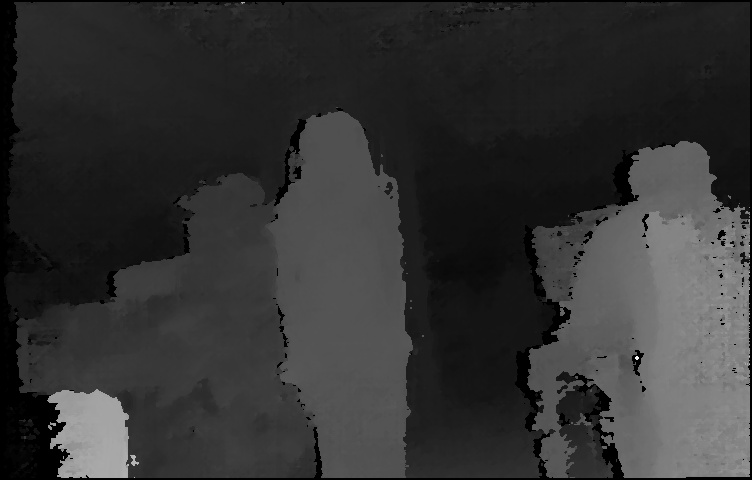
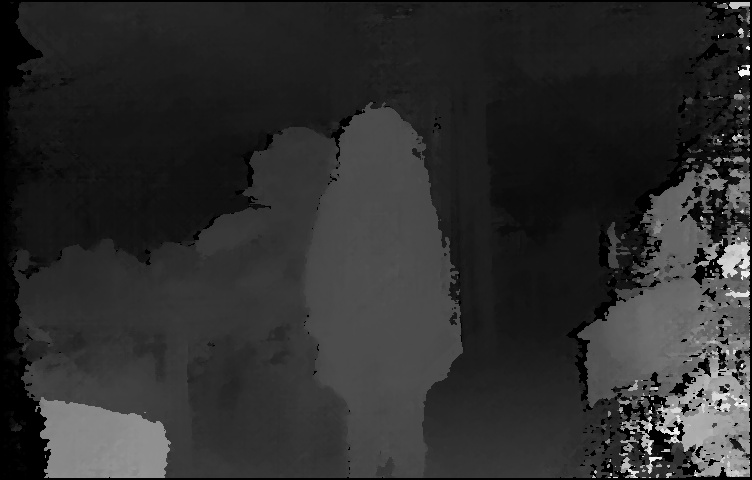
complete filter

diff --git a/src/example.cpp b/src/example.cpp
@@ -2,7 +2,9 @@
 
 BiCamera::~BiCamera()
 {
+  delete c;
   delete loop_rate;
+  delete[] img_data;
 }
 
 void BiCamera::FitPlane(PC::Ptr cloud,PC::Ptr fit_cloud) // need K
@@ -76,17 +78,30 @@ void BiCamera::FitPlane(PC::Ptr cloud,PC::Ptr fit_cloud) // need K
 void BiCamera::Init()
 {
   // ros publish
-  pub = nh.advertise<PC> ("points2", 1);
+  pub = nh.advertise<PC> ("points_temp", 1);
+  pub2 = nh.advertise<PC> ("points_test", 1);
 
-  // camera frame configuration
+  // set and open camera
+  sel = CAM_STEREO_752X480_LD_30FPS;
+  c = new movesense::MoveSenseCamera(sel);
+
+  //  # if use camera
+  // if(!(movesense::MS_SUCCESS == c->OpenCamera()))
+  //   {
+  //     std::cout << "Open Camera Failed!" << std::endl;
+  //     std::exit(1);
+  //   }
   width  = 752;
   height = 480;
+  len  = width * height * 2;
+  img_data = new unsigned char[len];
 }
 
 void BiCamera::ProcessTemplate() // FIXME: add point-list point to filter_cloud
 {
   char left_name[60];
   char disp_name[60];
+  Mat left, disp;
   for (int i = 0; i < TEMPNUM; i++)
     {
       // create temperary point clouds storaging data
@@ -105,14 +120,14 @@ void BiCamera::ProcessTemplate() // FIXME: add point-list point to filter_cloud
       disp = imread(disp_name, 0);
       
       DepthImageToPc(disp, temp_cloud); // depth image convert to point clouds
-      //imshow("aa", disp);
       
       // RemoveNoise(temp_cloud); // remove ground, celling, obstacles
 
-      PC::Ptr filter_cloud(new PC);
-      FilterPc(temp_cloud, filter_cloud); // filter point clouds
-      temp_cloud_ptr.push_back(temp_cloud);
+      PC::Ptr cloud_filtered(new PC);
+      FilterPc(temp_cloud, cloud_filtered); // filter point clouds
+      temp_cloud_ptr.push_back(cloud_filtered);
     }
+  cout << "ProcessTemplate over.\n";
 }
 
 void BiCamera::ProcessTest(Mat& disp) 
@@ -133,24 +148,25 @@ void BiCamera::ProcessTest(Mat& disp)
   cloud->width = width;
   cloud->is_dense = false;
   cloud->points.resize(cloud->width * cloud->height);
-  FilterPc(test_cloud, cloud); // filter point clouds
+  //FilterPc(test_cloud, cloud); // filter point clouds
 
   // match two point clouds using ICP
   PC::Ptr output(new PC);
   output->header.frame_id = "map";
-  float score = 0.0, min = 1000000.0;
+  float score = 0.0,  mmin = 1000000.0;
   int min_index = 0;
   for (int i = 0; i < TEMPNUM; i++)
     {
       score = MatchTwoPc(temp_cloud_ptr[i], test_cloud, output);
-      if (score <= min)
+      if (score <= mmin)
 	{
-	  min = score;
+	  mmin = score;
 	  min_index = i;
 	}
     }
-  ROS_WARN("This image is similiar to disp_%d  score: %d\n", min_index + 1, min);
-  //cout << "This image is similiar to disp_" << min_index + 1 << "  score: " << min << endl;
+  // ROS_WARN("This image is similiar to disp_%d  score: %f\n", min_index + 1, mmin);
+  printf("This image is similiar to disp_%d  score: %f\n", min_index + 1, mmin);
+  cout << "ProcessTest over.\n";
 }
 
 void BiCamera::DepthImageToPc(Mat& img, PC::Ptr cloud) 
@@ -186,9 +202,9 @@ void BiCamera::DepthImageToPc(Mat& img, PC::Ptr cloud)
 	if (z > 1000 && z < 2000)
 	  // && y / 255.0 > (-6) && y / 255.0 < 3)
 	 {
-	    cloud->points[index].x = x; // 255.0f is just for show in rviz
-	    cloud->points[index].y = y;
-	    cloud->points[index].z = z;
+	    cloud->points[index].x = x / SCALE; // 255.0f is just for show in rviz
+	    cloud->points[index].y = y / SCALE;
+	    cloud->points[index].z = z / SCALE;
 	    index++;
 	 }
       }
@@ -205,30 +221,50 @@ void BiCamera::RemoveNoise(PC::Ptr cloud)
     }
 }
 
-void BiCamera::FilterPc(PC::Ptr cloud, PC::Ptr filter_cloud)
-{
-  // filter_cloud = cloud;
-  
-  pcl::PCLPointCloud2::Ptr cloud_filtered_blob(new pcl::PCLPointCloud2), cloud_blob(new pcl::PCLPointCloud2);
-  pcl::toPCLPointCloud2(*cloud, *cloud_blob); // convert PC::Ptr to pcl::PCLPointCloud2
+void BiCamera::FilterPc(PC::Ptr cloud, PC::Ptr cloud_filtered)
+{ 
+  // pcl::PCLPointCloud2::Ptr cloud_filtered_blob(new pcl::PCLPointCloud2), cloud_blob(new pcl::PCLPointCloud2);
+  // pcl::toPCLPointCloud2(*cloud, *cloud_blob); // convert PC::Ptr to pcl::PCLPointCloud2
 
-  pcl::VoxelGrid<pcl::PCLPointCloud2> sor;
-  sor.setInputCloud(cloud_blob);
-  sor.setLeafSize(15, 15, 15);
-  sor.filter(*cloud_filtered_blob);
-
-  // pcl::PassThrough pass;
-  // pass.setInputCloud(cloud_blob);
-  // pass.setFilterFieldName("z");
-  // pass.setFilterLimits(0.0, 1.0);
-  // //pass.setFilterLimitsNegative (true);
-  // pass.filter(*cloud_filtered_blob);//滤波后的数据存储在cloud_filtered中
+  // pcl::VoxelGrid<pcl::PCLPointCloud2> sor;
+  // sor.setInputCloud(cloud_blob);
+  // sor.setLeafSize(0.01, 0.01, 0.01);
+  // sor.filter(*cloud_filtered_blob);
   
-  pcl::fromPCLPointCloud2(*cloud_filtered_blob, *filter_cloud); // convert pcl::PCLPointCloud2 to PC::Ptr
-  cout << cloud->points.size() << "   " << filter_cloud->points.size() << endl;
+  // pcl::fromPCLPointCloud2(*cloud_filtered_blob, *filter_cloud); // convert pcl::PCLPointCloud2 to PC::Ptr
+  
+  pcl::VoxelGrid<pcl::PointXYZ> vg;
+  vg.setInputCloud (cloud);
+  vg.setLeafSize (1, 1, 1);
+  vg.filter (*cloud_filtered);
+  cout << cloud->points.size() << "   " << cloud_filtered->points.size() << endl;
+  
+  // pcl::search::KdTree<pcl::PointXYZ>::Ptr tree (new pcl::search::KdTree<pcl::PointXYZ>);
+  // tree->setInputCloud (cloud_filtered);
+
+  // std::vector<pcl::PointIndices> cluster_indices;
+  // pcl::EuclideanClusterExtraction<pcl::PointXYZ> ec;
+  // ec.setClusterTolerance (0.02); // 2cm
+  // ec.setMinClusterSize (100); // minimum cluster size
+  // ec.setMaxClusterSize (20000); // maximum cluster size
+  // ec.setSearchMethod (tree);
+  // ec.setInputCloud (cloud_filtered);
+  // ec.extract (cluster_indices);
+
+  // for (std::vector<pcl::PointIndices>::const_iterator it = cluster_indices.begin (); it != cluster_indices.end (); ++it)
+  // {
+  //   PC::Ptr cloud_cluster (new PC);
+  //   for (std::vector<int>::const_iterator pit = it->indices.begin (); pit != it->indices.end (); ++pit)
+  //     cloud_cluster->points.push_back (cloud_filtered->points[*pit]); 
+  //   cloud_cluster->width = cloud_cluster->points.size ();
+  //   cloud_cluster->height = 1;
+  //   cloud_cluster->is_dense = true;
+
+  //   cout << "PointCloud representing the Cluster: " << cloud_cluster->points.size () << " data points." << endl;
+  // }
 }
 
-float BiCamera::MatchTwoPc(PC::Ptr target, PC::Ptr source, PC::Ptr output) // change source
+float BiCamera::MatchTwoPc(PC::Ptr target, PC::Ptr source, PC::Ptr output) // ICP
 {
   PC::Ptr src(new PC);  
   PC::Ptr tgt(new PC);  
@@ -249,7 +285,7 @@ float BiCamera::MatchTwoPc(PC::Ptr target, PC::Ptr source, PC::Ptr output) // ch
   
   output->resize(tgt->size() + output->size());  
   for (int i = 0; i < tgt->size(); i++)  
-    output->push_back(tgt->points[i]); //合并  
+    output->push_back(tgt->points[i]); // merge two points 
   //cout << "After registration using ICP:" << output->size() << endl;
   cout << icp.getFinalTransformation() << endl;
   return icp.getFitnessScore();
@@ -257,52 +293,82 @@ float BiCamera::MatchTwoPc(PC::Ptr target, PC::Ptr source, PC::Ptr output) // ch
 
 void BiCamera::Run()
 {
+  Mat left, disp;
+  
   // create filter_point which points to all template pointclouds
   ProcessTemplate(); // preprocess template
   
   loop_rate = new ros::Rate(4);
   flag = false;
   
-  int q = 3;
-  q--;
-  pcl::PointCloud<pcl::PointXYZ>::Ptr msg (new pcl::PointCloud<pcl::PointXYZ>);
-  msg->header.frame_id = "map";
-  msg->height = height;
-  msg->width = width;
-  msg->is_dense = false;
-  msg->points.resize(msg->width * msg->height);  
+  PC::Ptr msg (new PC);
+
+  PC::Ptr msg2 (new PC);
+  msg2->header.frame_id = "map";
+  msg2->height = height;
+  msg2->width = width;
+  msg2->is_dense = false;
+  msg2->points.resize(msg2->width * msg2->height);
 
   while (nh.ok())
-    { 	
+    {
+      // # if use camera
+      // c->GetImageData(img_data, len);
+      // Mat left(height, width, CV_8UC1), disp(height, width, CV_8UC1); // disp is the disparity map
+      // for(int i = 0 ; i < height; i++)
+      // 	{
+      // 	  memcpy(left.data + width * i, img_data + (2 * i) * width, width);
+      // 	  memcpy(disp.data + width * i, img_data + (2 * i + 1) * width, width);
+      // 	}
+
       //use mid-filter for disp
-      //medianBlur(disp, disp, 5);
+      // medianBlur(disp, disp, 5);
+      
 
       char left_name[60];
       char disp_name[60];
-      int i = 9;
-      sprintf(left_name, "img/test/left_%d.jpg", i);
-      sprintf(disp_name, "img/test/disp_%d.jpg", i);
+      sprintf(left_name, "img/test/left_%d.jpg", TIM);
+      sprintf(disp_name, "img/test/disp_%d.jpg", TIM);
       left = imread(left_name, 0);
       disp = imread(disp_name, 0);
       
       ProcessTest(disp); // estimate test poses
 
+      msg->header.frame_id = "map";
+      msg->height = temp_cloud_ptr[RVIZ-1]->points.size();
+      msg->width = 1;
+      msg->is_dense = true;
+      msg->points.resize(temp_cloud_ptr[RVIZ-1]->points.size()); // necessary
+      
       for (size_t i = 0; i < msg->points.size (); ++i)
-  	{
-  	  msg->points[i].x = temp_cloud_ptr[q]->points[i].x / 255.0;
-  	  msg->points[i].y = temp_cloud_ptr[q]->points[i].y / 255.0;
-  	  msg->points[i].z = temp_cloud_ptr[q]->points[i].z / 255.0;
-  	}
+      	{
+      	  msg->points[i].x = temp_cloud_ptr[RVIZ-1]->points[i].x / 255.0 * SCALE;
+      	  msg->points[i].y = temp_cloud_ptr[RVIZ-1]->points[i].y / 255.0 * SCALE;
+      	  msg->points[i].z = temp_cloud_ptr[RVIZ-1]->points[i].z / 255.0 * SCALE;
+      	  //msg2->points[i].x = temp_cloud_ptr[RVIZ-1]->points[i].x / 255.0 * SCALE;
+      	  //msg2->points[i].y = temp_cloud_ptr[RVIZ-1]->points[i].y / 255.0 * SCALE;
+      	  //msg2->points[i].z = temp_cloud_ptr[RVIZ-1]->points[i].z / 255.0 * SCALE;
+      	}
 
-      char key = waitKey(100);
+      char key = waitKey(50);
       if(key == 'q') // quit
   	break;
-
-      //pcl_conversions::toPCL(ros::Time::now(), temp_cloud_ptr[0]->header.stamp);
-      //pub.publish(temp_cloud_ptr[0]);
+      // # if use camera
+      // else if (key == 's') // save
+      // 	{
+      // 	  sprintf(left_name, "left_%d.jpg", num);
+      // 	  sprintf(disp_name, "disp_%d.jpg", num);
+      // 	  num++;
+      // 	  imwrite(left_name, left);
+      // 	  imwrite(disp_name, disp);
+      // 	}
       
       pcl_conversions::toPCL(ros::Time::now(), msg->header.stamp);
-      pub.publish (msg);      
+      pub.publish (msg);
+      
+      //pcl_conversions::toPCL(ros::Time::now(), msg2->header.stamp);
+      //pub2.publish (msg2);
+	
       ros::spinOnce ();
       loop_rate->sleep (); // private
     }

diff --git a/src/example.h b/src/example.h
@@ -8,15 +8,23 @@
 // PCL specific includes
 #include <sensor_msgs/PointCloud2.h>
 #include <pcl/point_cloud.h>
-#include <pcl_conversions/pcl_conversions.h>
 #include <pcl/point_types.h>
-#include <pcl/filters/voxel_grid.h>
-#include <pcl_ros/point_cloud.h>
-#include <pcl/ModelCoefficients.h>
+#include <pcl_conversions/pcl_conversions.h>
 #include <pcl/io/pcd_io.h>
+#include <pcl_ros/point_cloud.h>
+
+#include <pcl/filters/extract_indices.h>
+#include <pcl/filters/voxel_grid.h>
+
+#include <pcl/features/normal_3d.h>
+#include <pcl/kdtree/kdtree.h>
+
+#include <pcl/ModelCoefficients.h>
 #include <pcl/sample_consensus/method_types.h>
 #include <pcl/sample_consensus/model_types.h>
 #include <pcl/segmentation/sac_segmentation.h>
+#include <pcl/segmentation/extract_clusters.h>
+
 #include <pcl/registration/icp.h>
 // opencv specific includes
 #include <cv_bridge/cv_bridge.h>
@@ -34,6 +42,11 @@ typedef pcl::PointCloud<pcl::PointXYZ> PC;
 using namespace std;
 using namespace cv;
 using namespace clustering;
+
+// just for test
+#define RVIZ 2 // rviz show the RVIZ-th template
+#define TIM 10 // number of test image
+#define SCALE 20.0
 
 class BiCamera
 {
@@ -53,6 +66,7 @@ private:
   // for ros
   ros::NodeHandle nh;
   ros::Publisher pub;
+  ros::Publisher pub2;
   ros::Rate *loop_rate;
 
   // for DBSCAN
@@ -65,7 +79,7 @@ private:
   int height;
   int len;
   unsigned char *img_data;
-  Mat left, disp, left2, disp2;
+  //Mat left, disp;
 
   vector < PC::Ptr, Eigen::aligned_allocator<PC::Ptr> > temp_cloud_ptr;
 
